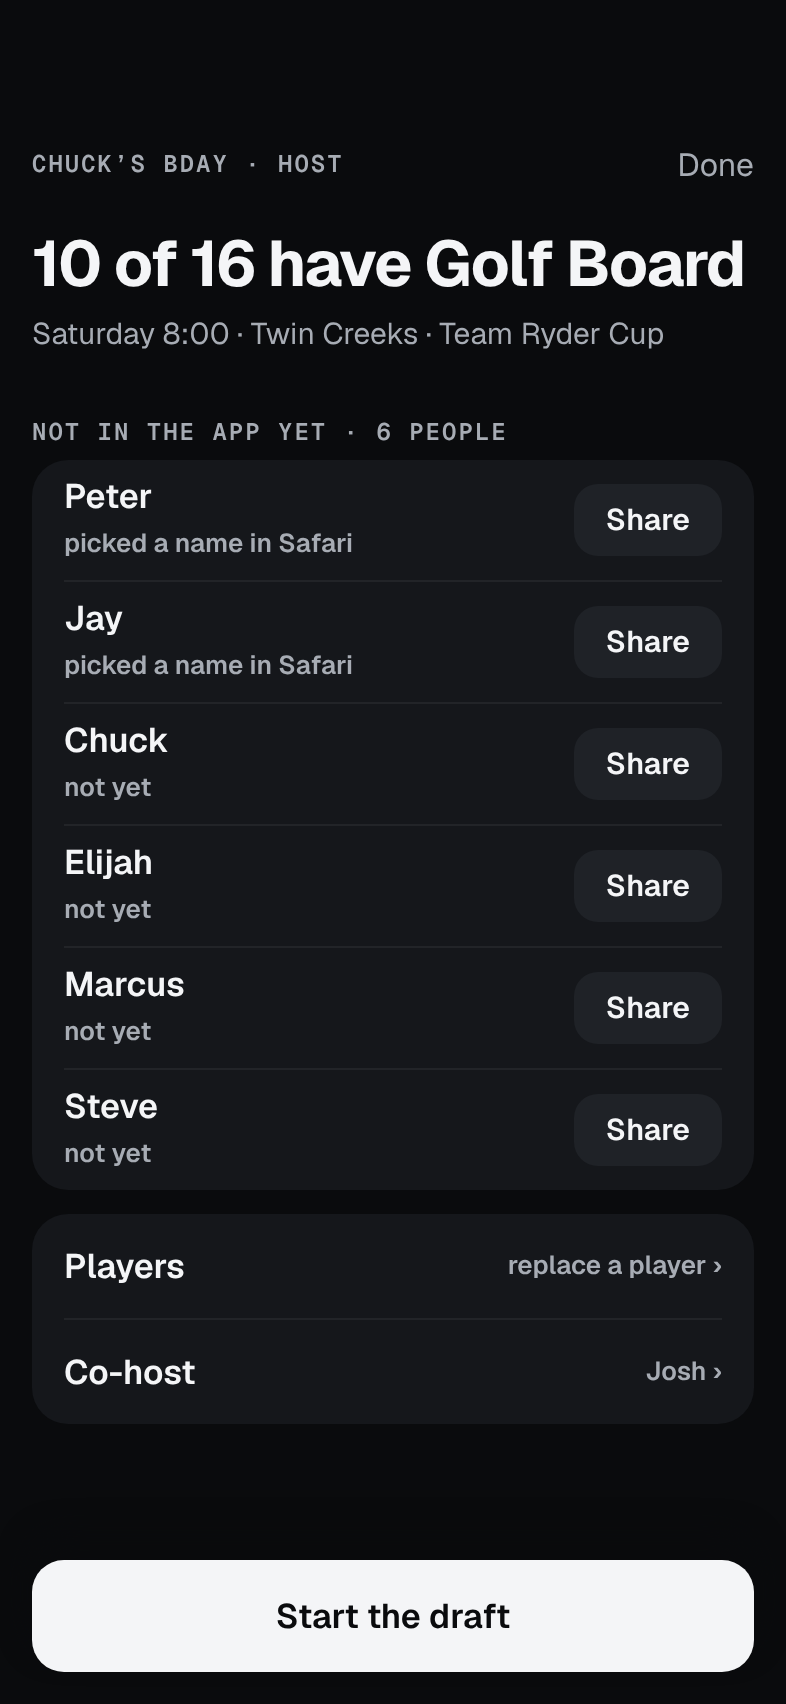
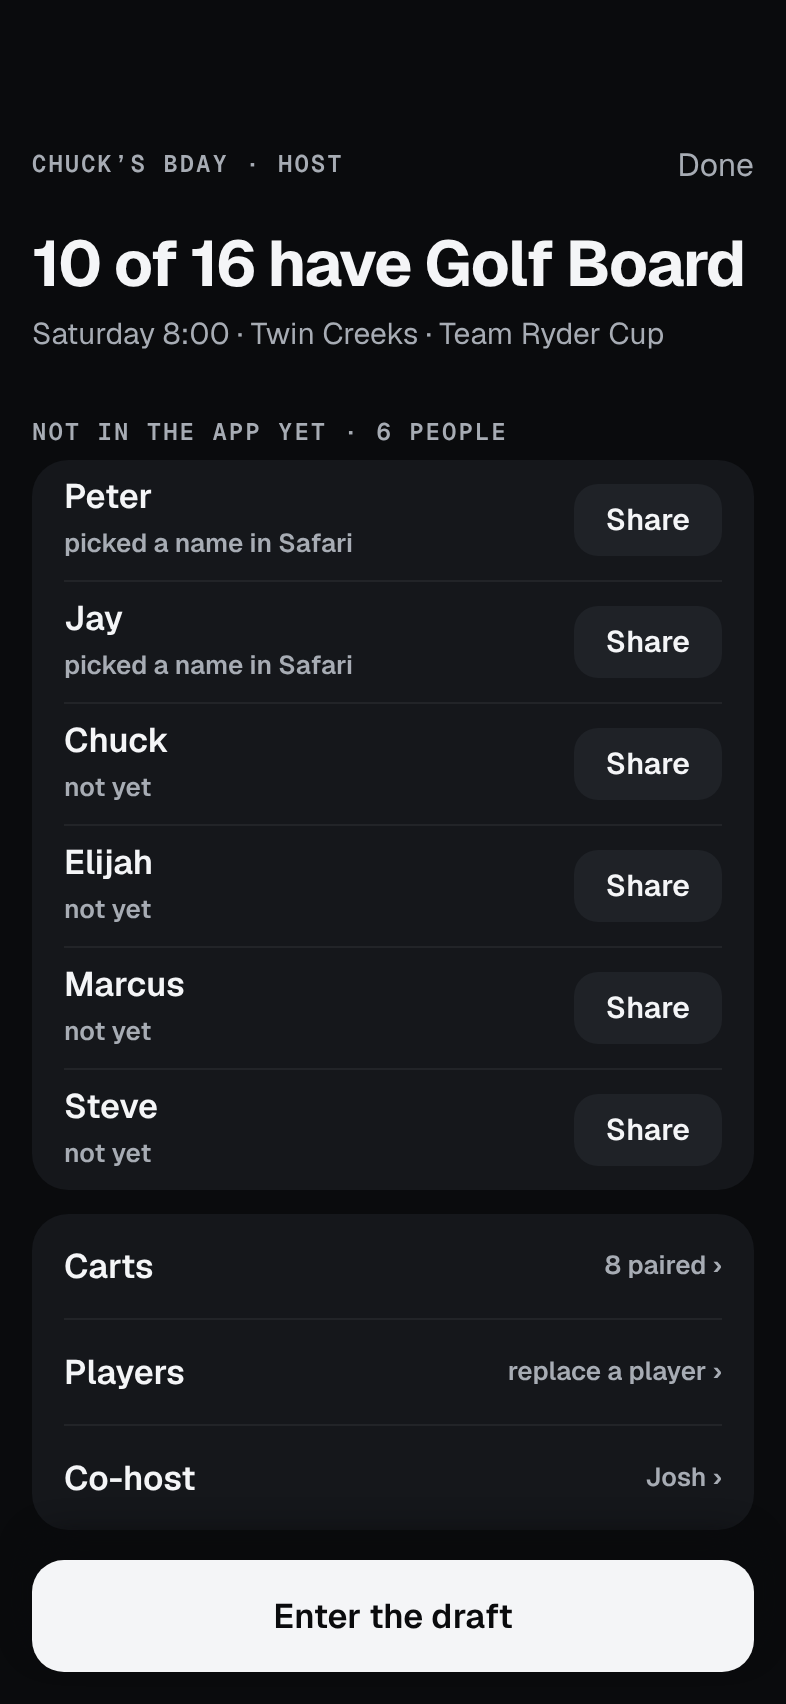
025: pair carts when opening the lobby; enter the in-person draft later (owner)
Claude-Session: https://claude.ai/code/session_01E1LafE2AXSwC6Gn1hLLUNX

diff --git a/docs/design/features/025-ryder-cup-lobby/mockups/lobby-screens.html b/docs/design/features/025-ryder-cup-lobby/mockups/lobby-screens.html
@@ -133,8 +133,8 @@ const V = {
     <p class="s m" style="margin-top:6px">Team Ryder Cup · 16 players</p>
     ${how}
     <div class="card" style="margin-top:12px;padding:0 16px"><div class="row tall"><div style="flex:1"><b style="display:block">Your handicap · <span class="mono">12</span></b><span class="t">Andrew sets these. Think it’s off? Text Andrew.</span></div></div></div>
-    <p class="lbl" style="margin:14px 0 6px">Coming up</p>
-    <div class="card" style="padding:0 16px">${stat('Teams', 'After Andrew’s draft')}${stat('Your start time and matches', 'After the draft')}</div>
+    <p class="lbl" style="margin:14px 0 6px">Your cart</p>
+    <div class="card" style="padding:0 16px"><div class="row"><b class="you">Baker + Mitch</b><span class="t">team after the draft</span></div></div>
     <p class="lbl" style="margin:20px 0 6px">Who’s playing · handicap</p>
     ${players()}
     <div class="flex"></div>
@@ -179,8 +179,8 @@ const V = {
     <h1 class="h1" style="margin-top:12px">Saturday · 9:10 at Twin Creeks</h1>
     <p class="s m" style="margin-top:6px">Team Ryder Cup · 16 players</p>
     <div class="card" style="margin-top:14px;display:flex;align-items:center;gap:10px;padding:12px 16px"><span class="warn-dot"></span><span class="s">Andrew moved the start to 9:10 (was 8:00).</span></div>
-    <p class="lbl" style="margin:14px 0 6px">Coming up</p>
-    <div class="card" style="padding:0 16px">${stat('Teams', 'After Andrew’s draft')}${stat('Your start time and matches', 'After the draft')}</div>
+    <p class="lbl" style="margin:14px 0 6px">Your cart</p>
+    <div class="card" style="padding:0 16px"><div class="row"><b class="you">Baker + Mitch</b><span class="t">team after the draft</span></div></div>
     <div class="flex"></div>
   </div>`,
   home: () => `<div class="pg" style="padding-top:62px">
@@ -264,16 +264,16 @@ const V = {
     <button class="pri">See who you’re up against</button>
   </div>`,
   // organizer: drafting from the lobby
-  hostcarts: () => `<div class="pg" style="padding-top:62px">${hhdr('draft · step 1 of 3')}
-    <h1 class="h1" style="margin-top:12px">Pair up the carts</h1>
-    <p class="p" style="margin-top:8px">8 carts of 2. Tap two names to swap them. Handicaps help you balance.</p>
+  hostcarts: () => `<div class="pg" style="padding-top:62px"><div class="top"><span class="lbl">New round · Chuck’s Bday · carts</span><span class="m">Skip</span></div>
+    <h1 class="h1" style="margin-top:12px">Who rides together?</h1>
+    <p class="p" style="margin-top:8px">8 carts of 2. Tap two names to swap. Players see their cart-mate in the lobby; teams come later.</p>
     <div style="display:flex;flex-direction:column;gap:6px;margin-top:16px">${[['Mitch 7', 'Baker 12'], ['Josh 4', 'Brandon 10'], ['Sean 5', 'Peter 20'], ['Justin 16', 'Chuck 18'], ['Andrew 8', 'Alex 15'], ['Ant 6', 'Steve 12']].map(([a, b]) => `<div class="chipcart"><b style="font-size:17px">${a.split(' ')[0]} <span class="t mono">${a.split(' ')[1]}</span> + ${b.split(' ')[0]} <span class="t mono">${b.split(' ')[1]}</span></b><span class="t">cart</span></div>`).join('')}<div class="t" style="padding:4px 4px">+ 2 more carts</div></div>
     <div class="flex"></div>
-    <button class="pri">Next: the draft</button>
+    <button class="pri">Open the lobby</button>
   </div>`,
-  hostdraft: () => `<div class="pg" style="padding-top:62px">${hhdr('draft · step 2 of 3')}
+  hostdraft: () => `<div class="pg" style="padding-top:62px">${hhdr('draft · 1 of 2')}
     <h1 class="h1" style="margin-top:12px">Josh picks</h1>
-    <p class="p" style="margin-top:8px">One phone, both captains looking. Snake order: Josh, Andrew, Andrew, Josh…</p>
+    <p class="p" style="margin-top:8px">Drafting in person? Tap each cart as it’s picked. Snake order: Josh, Andrew, Andrew, Josh…</p>
     <div style="display:grid;grid-template-columns:1fr 1fr;gap:12px;margin-top:16px">
       <div class="card" style="padding:12px 14px"><span class="lbl">Team Josh</span><div class="s" style="margin-top:6px">Mitch + Baker</div></div>
       <div class="card" style="padding:12px 14px"><span class="lbl">Team Andrew</span><div class="s" style="margin-top:6px">Andrew + Alex<br>Ant + Steve</div></div>
@@ -282,7 +282,7 @@ const V = {
     <div style="display:flex;flex-direction:column;gap:6px">${['Josh + Brandon', 'Sean + Peter', 'Justin + Chuck', 'Joseph + Jay', 'Elijah + Marcus'].map((c) => `<div class="chipcart"><b style="font-size:17px">${c}</b></div>`).join('')}</div>
     <div class="flex"></div>
   </div>`,
-  hoststarts: () => `<div class="pg" style="padding-top:62px">${hhdr('draft · step 3 of 3')}
+  hoststarts: () => `<div class="pg" style="padding-top:62px">${hhdr('draft · 2 of 2')}
     <h1 class="h1" style="margin-top:12px">Start times</h1>
     <p class="p" style="margin-top:8px">Each time sends out one Josh cart and one Andrew cart. They play each other first.</p>
     <div class="card" style="padding:0 16px;margin-top:16px">${[['8:00', 'Josh + Brandon v Andrew + Alex'], ['8:10', 'Sean + Peter v Ant + Steve'], ['8:20', 'Mitch + Baker v Joseph + Jay'], ['8:30', 'Justin + Chuck v Elijah + Marcus']].map(([t, m]) => `<div class="row tall"><b class="mono" style="flex:none;width:64px">${t}</b><span class="s" style="flex:1">${m}</span></div>`).join('')}</div>
@@ -304,9 +304,9 @@ const V = {
     <p class="s m" style="margin-top:6px">Saturday 8:00 · Twin Creeks · Team Ryder Cup</p>
     <p class="lbl" style="margin:16px 0 6px">Not in the app yet · 6 people</p>
     <div class="card" style="padding:0 16px">${person('Peter', 'picked a name in Safari')}${person('Jay', 'picked a name in Safari')}${person('Chuck', 'not yet')}${person('Elijah', 'not yet')}${person('Marcus', 'not yet')}${person('Steve', 'not yet')}</div>
-    <div class="card" style="padding:0 16px;margin-top:12px"><div class="row"><b>Players</b><span class="t">replace a player ›</span></div><div class="row"><b>Co-host</b><span class="t">Josh ›</span></div></div>
+    <div class="card" style="padding:0 16px;margin-top:12px"><div class="row"><b>Carts</b><span class="t">8 paired ›</span></div><div class="row"><b>Players</b><span class="t">replace a player ›</span></div><div class="row"><b>Co-host</b><span class="t">Josh ›</span></div></div>
     <div class="flex"></div>
-    <button class="pri">Start the draft</button>
+    <button class="pri">Enter the draft</button>
   </div>`,
   hostreplace: () => V.hostearly() + sheet(`<h2 class="h1">Replace Justin</h2>
       <p class="s m" style="margin:8px 0 14px">The sub takes Justin’s spot, with his team and cart. Justin’s phone is told.</p>

diff --git a/docs/design/features/025-ryder-cup-lobby/SPEC.md b/docs/design/features/025-ryder-cup-lobby/SPEC.md
@@ -41,7 +41,7 @@ Mockups are reference only. Rebuild them with the app's components and tokens: n
 
 ```
 settings.lobby = {
-  stage: 'lobby' | 'teams' | 'ready' | 'off',
+  stage: 'lobby' | 'carts' | 'teams' | 'ready' | 'off',
   startTime: 'HH:MM',            // the round's start (first group), organizer's local time
   tz: 'America/Chicago',         // IANA zone of the organizer's phone at creation (Intl.DateTimeFormat().resolvedOptions().timeZone)
   opensAt: ISO-8601 UTC | null,  // when scoring opens; set when stage becomes 'ready' (first start time − 30 min, computed in tz)
@@ -54,6 +54,7 @@ settings.lobby = {
 - The date is `events.played_on`. It's set at creation and changed with the new `set_round_date` RPC (§3).
 - **The stages:**
   - `lobby`: the names are set; there are no carts or sides yet (`roster.teams` and `roster.sides` are empty).
+  - `carts`: carts are paired (owner, Nov 6): `roster.teams` holds 8 carts with **temporary ids `C1`…`C8`**, no `sides`, so every player sees who they ride with. Ryder cart ids carry their side (`1A`…`2D`), so the draft renames each cart to its real id when it lands on a team. Player ids and `teamId` links are updated together, and claims are keyed by player id, so nobody who has joined loses their spot. `ryderState` / `compute` must ignore carts without sides.
   - `teams`: carts and the draft are saved, so `roster.teams` and `sides` are filled.
   - `ready`: start times are saved (`settings.teeTimes`, one per group), and `opensAt` is set.
   - `off`: called off.
@@ -67,10 +68,12 @@ settings.lobby = {
 
 **Setup (Team Ryder Cup only):** course → players (16, as today: crew chips, search, guests) → game = Team Ryder Cup. Then comes the new choice screen **15**: primary **Invite now, draft later**, secondary **Draft and tee times first**. The secondary is exactly today's Carts → Draft → Tee times flow.
 
-**Invite now** adds one small step, **When**: a date picker and a start-time picker, using the existing TextField pattern and native `<input type=date|time>`. It isn't drawn; build it from existing parts and flag it. Then it creates the event:
+**Invite now** adds two small steps. First **When**: a date picker and a start-time picker, using the existing TextField pattern and native `<input type=date|time>`. It isn't drawn; build it from existing parts and flag it. Then it creates the event:
 - `create_event` with `p_played_on` = the date;
 - `roster.players` with their personIds, and no teams or sides;
 - `settings.ryder` as today, and `settings.lobby = { stage: 'lobby', startTime, tz, ... }`.
+
+Then **Who rides together?** (`screenshots/handicap-flow/10-hostcarts.png`): Setup's existing `ryCartsView` (8 carts of 2, tap two names to swap, handicaps beside names). **Skip** is allowed, and carts can be paired later from Host → Carts. Saving sets stage `carts`.
 
 After that it goes straight to Host's lobby view (**16**) with the share sheet open (link + “You're on the list for Chuck's Bday on Saturday. Tap to join.”).
 
@@ -79,7 +82,7 @@ After that it goes straight to Host's lobby view (**16**) with the share sheet o
 - **Not in the app yet · K people:** one row per person (Peter “picked a name in Safari” · Chuck “not yet”), each with a **Share** pill (share sheet, ready message with the link). K plus N must add up to the roster.
 - **Players · replace a player ›** (§4) and **Co-host · Josh ›** (§5).
 - **The primary is always the next step:**
-  - in `lobby`: **Start the draft** runs the three draft steps on the open round. See `screenshots/handicap-flow/10-hostcarts`, `11-hostdraft` and `12-hoststarts`: these are Setup's existing `ryCartsView` → `ryDraftView` → `ryTeeView`, re-labelled “Draft · step n of 3”, with handicaps next to names when pairing carts.
+  - in `lobby` (carts skipped): **Pair the carts** (the same carts step). In `carts`: **Enter the draft** (the draft happens in person; the organizer taps each pick in after). It runs two steps on the open round. See `screenshots/handicap-flow/11-hostdraft` and `12-hoststarts`: these are Setup's existing `ryDraftView` (“Draft · 1 of 2 · Drafting in person? Tap each cart as it's picked.”) and `ryTeeView` (“Draft · 2 of 2”, start times). The carts step only reopens if the organizer picks Host → Carts.
     - Saving the draft writes `roster.teams` / `sides` via `update_event` and sets stage `teams`. Player ids never change, so claims survive.
     - It's reachable from Host's lobby view (16) and from the organizer's own lobby (⋯ → Host).
   - in `teams`: first **Share the teams**, a one-time primary (share sheet: “Teams are set for Chuck's Bday. Open Golf Board to see yours.”). Then **Set start times**, which runs `ryTeeView` and saves `settings.teeTimes`. That sets stage `ready` and `opensAt` = first start time − 30 min on `played_on` in `tz`.
@@ -134,7 +137,7 @@ Round options → **Co-host** → pick a player (**cohost** = playerId) → the 
   - **Handicaps:** the lobby shows **Your handicap · 12** with “Andrew sets these. Think it's off? Text Andrew.” (**text only, no button**, owner Nov 6). Who's playing shows everyone's handicap on the right. It comes from roster `strokes`, which Host already edits. No database change.
   - **Host's share message:** “You're on the list for Chuck's Bday on Saturday. Tap this to reveal your handicap.”
 - **Lobby screen (4–8, 14):** when and where as the headline. Its content depends on the stage:
-  - **Before the draft (4):** “Coming up · Teams · Your start time and matches”, then **Who's playing** (the first four names, then “12 more · 3 haven't added Golf Board ›” → the full list).
+  - **Before the draft (4):** “Your handicap”, then **Your cart · Baker + Mitch** (your cart in green, “team after the draft”) once carts are paired (otherwise “Coming up · Teams · Your start time and matches”), then **Who's playing** (the first four names, then “12 more · 3 haven't added Golf Board ›” → the full list).
   - **Teams set (5):** your team; only **your cart** in green; the other team collapsed to one row.
   - **Ready (6):** “Saturday · 8:20 with Mitch”, your three matches, and “Scoring opens by itself at 7:30.”
   - **Day of, not ready (7):** “Andrew or Josh is setting start times · teams are set” with **Text Andrew**.
